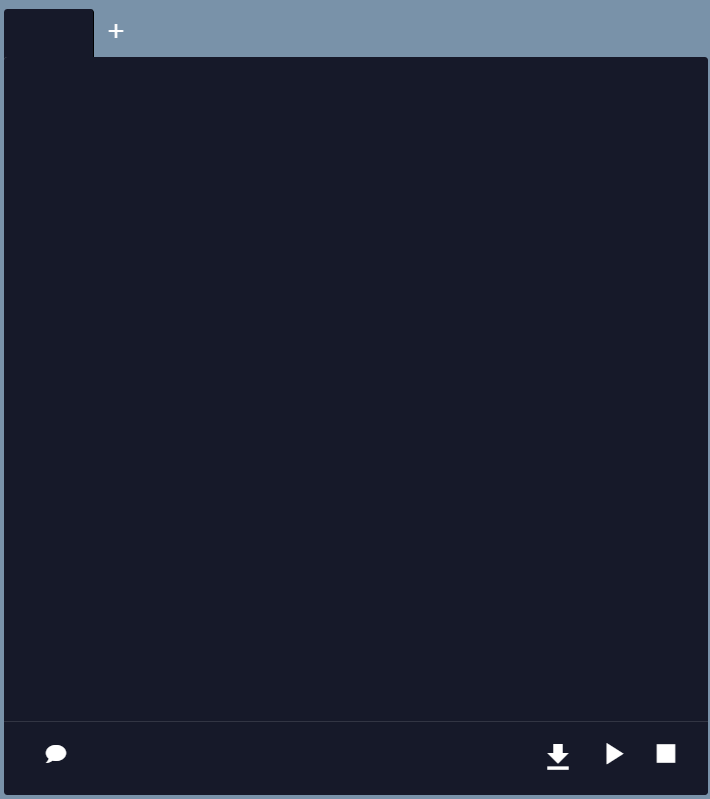
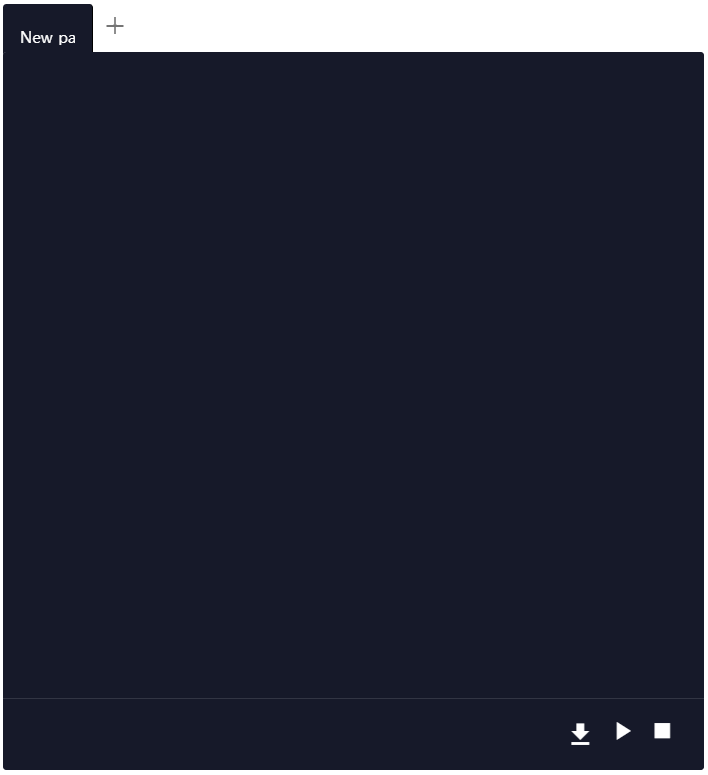
Modify 튜토리얼 페이지 컴포넌트 추가
- frontend/src/assets/help/: 사진 추가/변경
- frontend/src/components/common/Header.vue : 헤더에 버튼 추가
- frontend/src/components/help/HelpBtn.vue  : | 추가
- frontend/src/components/help/Helpshow.vue : opacity 변경 z-index 변경
- frontend/src/views/PracticeRoom.vue       : 튜토리얼 페이지 컴포넌트 추가

Changed region(s): [[0.0, 0.0, 1.0, 1.0], [0.9322, 0.929, 0.9633, 0.96], [0.0621, 0.929, 0.0932, 0.96]]

diff --git a/frontend/src/components/help/Helpshow.vue b/frontend/src/components/help/Helpshow.vue
@@ -2,8 +2,8 @@
   <v-overlay
     :absolute="true"
     :value="this.$store.getters.getHelp"
-    opacity="0.9"
-    z-index="1"
+    opacity="0.8"
+    z-index="4"
   >
     <div class="align-center d-flex">
       <v-img
@@ -11,10 +11,12 @@
         transition="v-slide-y-transition"
         dark
         max-width="400"
+        max-height="400"
         contain
         :lazy-src="imgsrc[nowPage]"
         :src="imgsrc[nowPage]"
       ></v-img>
+
       <div class="ml-4">
         <v-card
           elevation="20"
@@ -57,15 +59,15 @@
                 >이전</v-btn
               >
               <v-btn
-                v-if="nowPage !== 2"
-                :disabled="nowPage === 2"
+                v-if="nowPage !== maxPage"
+                :disabled="nowPage === maxPage"
                 small
                 color="indigo darken-4"
                 @click="next"
                 >다음</v-btn
               >
               <v-btn
-                v-if="nowPage === 2"
+                v-if="nowPage === maxPage"
                 small
                 color="indigo darken-4"
                 @click="changeHelpState"
@@ -89,13 +91,22 @@ export default {
     share: "",
     imgsrc: [
       require("@/assets/help/help1.png"),
+      require("@/assets/help/help1-1.png"),
+      require("@/assets/help/help1-2.png"),
       require("@/assets/help/help2.png"),
       require("@/assets/help/help3.png"),
+      require("@/assets/help/help4.png"),
     ],
     describe: [
       ["플레이어", "이것은 플레이어 입니다"],
-      ["메트로놈", "이것은 메트로놈 입니다"],
-      ["작업보드", "녹음을하거나 파일업로드를 할 수 있어요"],
+      ["New Page", "새로운 페이지 추가 가능합니다"],
+      ["재생", "한번에 재생이 가능해요"],
+      ["메트로놈", "메트로놈이에요"],
+      [
+        "작업보드",
+        "녹음을하거나 파일업로드를 하고, 플레이어에 추가가 가능해요",
+      ],
+      ["채팅", "와! 채팅 대박!"],
     ],
   }),
   methods: {
@@ -106,6 +117,7 @@ export default {
       setTimeout(() => {
         this.show = true;
       }, 1);
+
       //this.$forceUpdate();
     },
     next() {
@@ -122,7 +134,7 @@ export default {
     },
   },
   mounted() {
-    this.maxPage = this.describe.length;
+    this.maxPage = this.describe.length - 1;
   },
   computed: {
     showState() {

diff --git a/frontend/src/views/PracticeRoom.vue b/frontend/src/views/PracticeRoom.vue
@@ -6,9 +6,9 @@
       v-on:openModal="openModal"
       :hasNickName="hasNickName"
       :newChat="newChat"
-      style="display: block; position: fixed; width: auto !important;"
+      style="display: block; position: fixed; width: auto !important"
     />
-    <div style="height:70px"></div>
+    <div style="height: 70px"></div>
     <!-- 부모 row -->
     <v-row no-gutters class="mx-auto" style="width: 1100px !important">
       <!-- 왼쪽 컴포넌트들 -->
@@ -108,6 +108,7 @@
       @close="closeModal"
       @setNickName="setNickName"
     />
+    <Help />
   </v-main>
 </template>
 
@@ -121,7 +122,7 @@ import Stomp from "webstomp-client";
 import SockJS from "sockjs-client";
 import Chat from "@/components/chat/Chat.vue";
 import SetNickName from "@/components/chat/SetNickName.vue";
-
+import Help from "@/components/help/Helpshow.vue";
 //import * as Tone from "tone";
 import Config from "@/store/config";
 
@@ -133,6 +134,7 @@ export default {
     Record,
     Chat,
     SetNickName,
+    Help,
   },
   created() {
     // Status를 vuex에 저장

diff --git a/frontend/src/components/common/Header.vue b/frontend/src/components/common/Header.vue
@@ -32,14 +32,16 @@
       </div>
       Chat
     </v-btn>
-    <Share/>
+    <Helpbtn />
+    <Share />
   </v-app-bar>
 </template>
 
 <script>
 import Share from "../practiceroom/Share.vue";
+import Helpbtn from "../help/HelpBtn.vue";
 export default {
-  components: { Share },
+  components: { Share, Helpbtn },
   props: ["openChat", "hasNickName", "newChat"],
   data() {
     return {

diff --git a/frontend/src/components/help/HelpBtn.vue b/frontend/src/components/help/HelpBtn.vue
@@ -1,7 +1,10 @@
 <template>
-  <v-btn dark text @click="changeHelpState">
-    <v-icon class="pr-2">mdi-help-circle-outline</v-icon> help
-  </v-btn>
+  <div>
+    <span style="color: white">|</span>
+    <v-btn dark text @click="changeHelpState">
+      <v-icon class="pr-2">mdi-help-circle-outline</v-icon> help
+    </v-btn>
+  </div>
 </template>
 
 <script>
